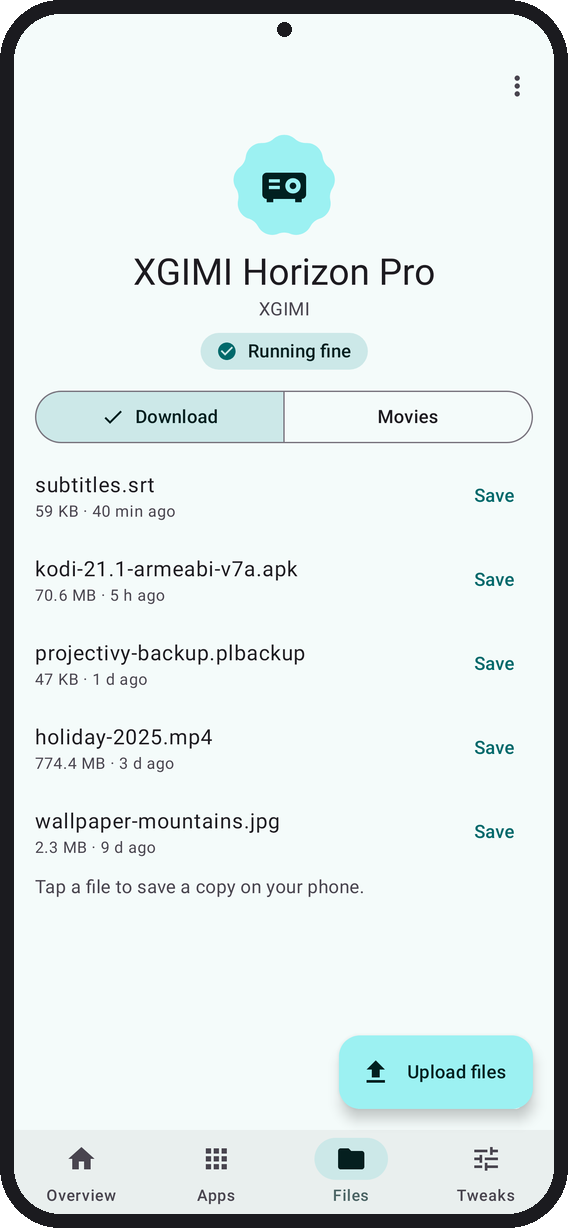
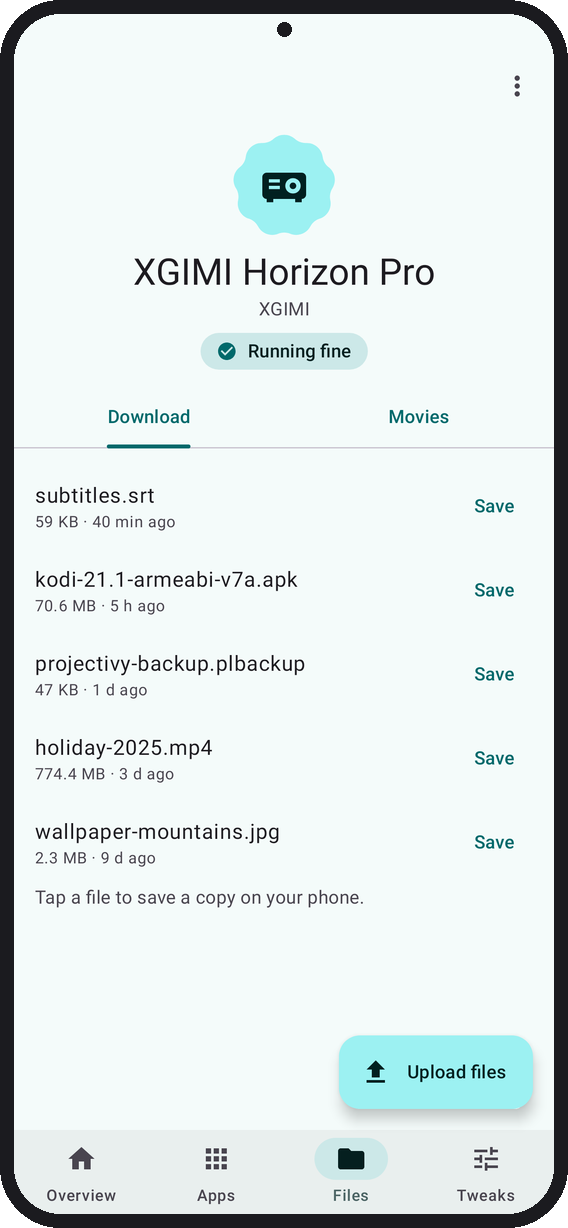
Put Download and Movies in tabs under the TV, and let short tabs fold fully
Files gets the pinned tab row the Apps tabs use. A tab shorter than the
screen gets blank space at its end, just enough for the hero to scroll
fully into the bar, so Files and Tweaks fold like the long tabs.

diff --git a/app/src/main/java/app/tellyscope/ui/DeviceTabs.kt b/app/src/main/java/app/tellyscope/ui/DeviceTabs.kt
@@ -10,8 +10,10 @@ import androidx.compose.foundation.layout.Box
 import androidx.compose.foundation.layout.Column
 import androidx.compose.foundation.layout.PaddingValues
 import androidx.compose.foundation.layout.Row
+import androidx.compose.foundation.layout.Spacer
 import androidx.compose.foundation.layout.fillMaxSize
 import androidx.compose.foundation.layout.fillMaxWidth
+import androidx.compose.foundation.layout.height
 import androidx.compose.foundation.layout.padding
 import androidx.compose.foundation.layout.size
 import androidx.compose.foundation.lazy.LazyColumn
@@ -65,6 +67,7 @@ import androidx.compose.runtime.mutableStateOf
 import androidx.compose.runtime.remember
 import androidx.compose.runtime.saveable.rememberSaveable
 import androidx.compose.runtime.setValue
+import androidx.compose.runtime.snapshotFlow
 import androidx.compose.ui.Alignment
 import androidx.compose.ui.Modifier
 import androidx.compose.ui.graphics.Color
@@ -74,11 +77,13 @@ import androidx.compose.ui.graphics.graphicsLayer
 import androidx.compose.ui.graphics.lerp
 import androidx.compose.ui.graphics.vector.ImageVector
 import androidx.compose.ui.graphics.vector.PathParser
+import androidx.compose.ui.platform.LocalDensity
 import androidx.compose.ui.text.SpanStyle
 import androidx.compose.ui.text.buildAnnotatedString
 import androidx.compose.ui.text.font.FontWeight
 import androidx.compose.ui.text.withStyle
 import androidx.compose.ui.unit.dp
+import app.tellyscope.adb.TvFolder
 import app.tellyscope.data.Action
 import app.tellyscope.data.AppInfo
 import app.tellyscope.data.DeviceState
@@ -136,6 +141,17 @@ fun DeviceTabsScreen(
     var heroHeight by remember { mutableIntStateOf(0) }
     val collapse by remember { derivedStateOf { collapsedFraction(list.firstVisibleItemIndex, list.firstVisibleItemScrollOffset, heroHeight) } }
     val barTitle by remember { derivedStateOf { titleAlpha(collapse) > 0f } }
+    // A tab shorter than the screen gets blank space at its end, so its hero can still fold fully into the bar.
+    // Measured only while the hero and the space are both in view; kept as it was while scrolled.
+    var tail by remember { mutableIntStateOf(0) }
+    LaunchedEffect(list) {
+        snapshotFlow { list.layoutInfo }.collect { info ->
+            val items = info.visibleItemsInfo
+            val hero = items.firstOrNull { it.key == "hero" } ?: return@collect
+            val end = items.firstOrNull { it.key == "tail" } ?: return@collect
+            tail = tailSpace(hero.size, info.mainAxisItemSpacing, end.offset - hero.offset, info.afterContentPadding, info.viewportSize.height)
+        }
+    }
     // The tabs share one list, so each opens at the top with its hero, not where the last one was left.
     // "See changes" lands on Tweaks scrolled to Recent changes, the list's third item, after the hero.
     var toChanges by remember { mutableStateOf(false) }
@@ -278,7 +294,7 @@ fun DeviceTabsScreen(
                     } else {
                         // Pinned under the bar once the hero has folded into it.
                         stickyHeader(key = "appsTabs") {
-                            AppsTabRow(appsTab, lerp(MaterialTheme.colorScheme.surface, MaterialTheme.colorScheme.surfaceContainer, collapse), inset = 16.dp) { appsTab = it }
+                            PinnedTabRow(AppsTab.entries.map { it.label }, appsTab.ordinal, lerp(MaterialTheme.colorScheme.surface, MaterialTheme.colorScheme.surfaceContainer, collapse), inset = 16.dp) { appsTab = AppsTab.entries[it] }
                         }
                         val split = splitApps(ui.apps, procs, appsTab)
                         if (split.apps.isEmpty() && split.system.isEmpty()) item {
@@ -294,6 +310,12 @@ fun DeviceTabsScreen(
                     }
                 }
                 TvTab.Files -> {
+                    // Pinned under the bar once the hero has folded into it, like the Apps tabs.
+                    stickyHeader(key = "folders") {
+                        PinnedTabRow(TvFolder.entries.map(Copy::folder), ui.files.folder.ordinal, lerp(MaterialTheme.colorScheme.surface, MaterialTheme.colorScheme.surfaceContainer, collapse), inset = 16.dp) {
+                            if (!offline) actions.folder(TvFolder.entries[it])
+                        }
+                    }
                     if (offline) item { Muted("Connect to the TV to see its files.") }
                     else {
                         item { FilesBlock(ui.files, state.now, actions) }
@@ -309,6 +331,7 @@ fun DeviceTabsScreen(
                     }
                 }
             }
+            item(key = "tail") { Spacer(Modifier.height(with(LocalDensity.current) { tail.toDp() })) }
         }
         if (!offline) ui.request?.let { RequestDialog(it, ui.busy == ANSWERING, actions.answerRequest, actions.dismissRequest) }
         ui.sideload?.let { SideloadDialog(it, actions) }

diff --git a/app/src/test/java/app/tellyscope/ScreenshotTest.kt b/app/src/test/java/app/tellyscope/ScreenshotTest.kt
@@ -12,6 +12,7 @@ import androidx.compose.runtime.Composable
 import androidx.compose.ui.Modifier
 import androidx.compose.ui.unit.dp
 import androidx.compose.ui.test.junit4.v2.createComposeRule
+import androidx.compose.ui.test.assertIsDisplayed
 import androidx.compose.ui.test.assertIsEnabled
 import androidx.compose.ui.test.assertIsNotDisplayed
 import androidx.compose.ui.test.assertIsNotEnabled
@@ -279,7 +280,50 @@ class ScreenshotTest {
     @Test fun md3_apps_collapsed_dark() = collapsed("64_md3_apps_collapsed", true, "Connected", TvTab.Apps)
     @Config(qualifiers = "w411dp-h640dp-xxhdpi")
     @Test fun md3_files_collapsed() = collapsed("65_md3_files_collapsed", false, "Connected", TvTab.Files)
+    @Config(qualifiers = "w411dp-h640dp-xxhdpi")
+    @Test fun md3_files_collapsed_dark() = collapsed("65_md3_files_collapsed", true, "Connected", TvTab.Files)
+    // On a tall screen the short tabs still fold the hero fully into the bar: the end space makes the room.
+    @Test fun md3_files_foldsOnTallScreen() = collapsed("65_md3_files_collapsed_tall", false, "Connected", TvTab.Files)
+    @Test fun md3_tweaks_foldsOnTallScreen() = collapsed("66_md3_tweaks_collapsed_tall", false, "Connected", TvTab.Tweaks)
+    // Download and Movies are tabs under the hero now, like Apps.
+    private fun moviesState() = md3State().let { it.copy(device = it.device.copy(files = FilesUi(TvFolder.MOVIES, listOf(
+        TvFile("holiday-2025.mp4", 812_000_000, now - 3 * 86_400_000L),
+        TvFile("family-trip-2025.mp4", 486_000_000, now - 9 * 86_400_000L),
+    )))) }
+    @Test fun md3_files_movies() { shot("73_md3_files_movies") { DeviceTabsScreen(moviesState(), DeviceActions(), startTab = TvTab.Files) } }
+    @Test fun md3_files_movies_dark() { shot("73_md3_files_movies", dark = true) { DeviceTabsScreen(moviesState(), DeviceActions(), startTab = TvTab.Files) } }
+    @Test fun md3_files_offline() {
+        shot("74_md3_files_offline") { DeviceTabsScreen(offlineMd3(), DeviceActions(), startTab = TvTab.Files) }
+        compose.onNodeWithText("Movies").assertExists()
+        compose.onNodeWithText("Connect to the TV to see its files.").assertExists()
+    }
+    @Test fun md3_files_offline_dark() { shot("74_md3_files_offline", dark = true) { DeviceTabsScreen(offlineMd3(), DeviceActions(), startTab = TvTab.Files) } }
+    @Test fun filesTabsPickTheFolder() {
+        val picked = mutableListOf<TvFolder>()
+        compose.mainClock.autoAdvance = false
+        compose.setContent { TellyscopeTheme(dynamic = false) { DeviceTabsScreen(md3State(), DeviceActions(folder = { picked += it }), startTab = TvTab.Files) } }
+        compose.mainClock.advanceTimeBy(1_000)
+        compose.onNodeWithText("Movies").performClick()
+        compose.mainClock.advanceTimeBy(1_000)
+        assertEquals(listOf(TvFolder.MOVIES), picked)
+    }
     @Test fun md3_tweaks() { shot("66_md3_tweaks") { DeviceTabsScreen(md3State(), DeviceActions(), startTab = TvTab.Tweaks) } }
+    @Test fun md3_tweaks_dark() { shot("66_md3_tweaks", dark = true) { DeviceTabsScreen(md3State(), DeviceActions(), startTab = TvTab.Tweaks) } }
+    @Test fun md3_tweaks_offline() { shot("75_md3_tweaks_offline") { DeviceTabsScreen(offlineMd3(), DeviceActions(), startTab = TvTab.Tweaks) } }
+    @Test fun md3_tweaks_offline_dark() { shot("75_md3_tweaks_offline", dark = true) { DeviceTabsScreen(offlineMd3(), DeviceActions(), startTab = TvTab.Tweaks) } }
+    @Config(qualifiers = "w411dp-h640dp-xxhdpi")
+    @Test fun md3_tweaks_collapsed_dark() = collapsed("66_md3_tweaks_collapsed", true, "Connected", TvTab.Tweaks)
+    // "See changes" on Overview still lands on Tweaks at Recent changes, the end space notwithstanding.
+    @Test fun seeChangesLandsOnRecentChanges() {
+        compose.mainClock.autoAdvance = false
+        compose.setContent { TellyscopeTheme(dynamic = false) { DeviceTabsScreen(md3State(), DeviceActions()) } }
+        compose.mainClock.advanceTimeBy(1_000)
+        compose.onNode(hasScrollAction()).performScrollToNode(hasText("See changes"))
+        compose.onNodeWithText("See changes").performClick()
+        compose.mainClock.advanceTimeBy(1_000)
+        compose.onNodeWithText("Recent changes").assertIsDisplayed()
+        compose.onAllNodesWithText("Connected").onFirst().assertExists() // folded into the bar
+    }
     @Config(qualifiers = "w411dp-h640dp-xxhdpi")
     @Test fun md3_tweaks_collapsed() = collapsed("66_md3_tweaks_collapsed", false, "Connected", TvTab.Tweaks)
 

diff --git a/app/src/main/java/app/tellyscope/ui/TvHeader.kt b/app/src/main/java/app/tellyscope/ui/TvHeader.kt
@@ -26,7 +26,9 @@ import androidx.compose.material3.FilterChip
 import androidx.compose.material3.Icon
 import androidx.compose.material3.MaterialShapes
 import androidx.compose.material3.MaterialTheme
+import androidx.compose.material3.PrimaryTabRow
 import androidx.compose.material3.Surface
+import androidx.compose.material3.Tab
 import androidx.compose.material3.Text
 import androidx.compose.material3.toShape
 import androidx.compose.runtime.Composable
@@ -34,8 +36,10 @@ import androidx.compose.ui.Alignment
 import androidx.compose.ui.Modifier
 import androidx.compose.ui.draw.alpha
 import androidx.compose.ui.draw.clip
+import androidx.compose.ui.graphics.Color
 import androidx.compose.ui.graphics.TransformOrigin
 import androidx.compose.ui.graphics.graphicsLayer
+import androidx.compose.ui.layout.layout
 import androidx.compose.ui.layout.onSizeChanged
 import androidx.compose.ui.text.style.TextOverflow
 import androidx.compose.ui.unit.Dp
@@ -65,6 +69,15 @@ internal fun detailAlpha(f: Float) = (1f - 2f * f).coerceIn(0f, 1f)
 
 /** The bar title comes in over the last third, as the hero's name passes under the bar. */
 internal fun titleAlpha(f: Float) = ((f - 0.67f) / 0.33f).coerceIn(0f, 1f)
+
+/**
+ * The blank space a tab needs after its last item so the hero can scroll fully under the bar,
+ * 0 when the tab is long enough already. From the list laid out with the hero and the space both
+ * in view: [heroSize] and [spacing] are the hero item and the gap after it, [contentEnd] where the
+ * space starts measured from the hero's top, [afterPadding] the list's end padding.
+ */
+internal fun tailSpace(heroSize: Int, spacing: Int, contentEnd: Int, afterPadding: Int, viewport: Int): Int =
+    (heroSize + spacing - (contentEnd + afterPadding - viewport)).coerceAtLeast(0)
 
 /** The TV's cookie tile: primary while it's connected, grey when it isn't. */
 @OptIn(ExperimentalMaterial3ExpressiveApi::class)
@@ -175,5 +188,23 @@ private fun TvChips(state: UiState, actions: DeviceActions) {
         }
         // Adding a TV sits with the TVs, as the last chip.
         AssistChip(onClick = actions.addDevice, label = { Text("Device") }, leadingIcon = { Icon(Icons.Default.Add, contentDescription = "Add a", Modifier.size(18.dp)) })
+    }
+}
+
+/** A tab's own tabs, edge to edge across the list's side [inset], pinned under the bar once the hero has folded. */
+@Composable
+internal fun PinnedTabRow(labels: List<String>, selected: Int, color: Color, inset: Dp, onSelect: (Int) -> Unit) {
+    PrimaryTabRow(
+        selectedTabIndex = selected,
+        containerColor = color,
+        modifier = Modifier.layout { m, c ->
+            val side = inset.roundToPx()
+            val p = m.measure(c.copy(minWidth = c.maxWidth + 2 * side, maxWidth = c.maxWidth + 2 * side))
+            layout(c.maxWidth, p.height) { p.place(-side, 0) }
+        },
+    ) {
+        labels.forEachIndexed { i, label ->
+            Tab(selected = selected == i, onClick = { onSelect(i) }, text = { Text(label) })
+        }
     }
 }

diff --git a/app/src/main/java/app/tellyscope/ui/AppsTabs.kt b/app/src/main/java/app/tellyscope/ui/AppsTabs.kt
@@ -12,16 +12,11 @@ import androidx.compose.material.icons.filled.KeyboardArrowDown
 import androidx.compose.material.icons.filled.KeyboardArrowUp
 import androidx.compose.material3.Icon
 import androidx.compose.material3.MaterialTheme
-import androidx.compose.material3.PrimaryTabRow
-import androidx.compose.material3.Tab
 import androidx.compose.material3.Text
 import androidx.compose.runtime.Composable
 import androidx.compose.ui.Alignment
 import androidx.compose.ui.Modifier
 import androidx.compose.ui.draw.clip
-import androidx.compose.ui.graphics.Color
-import androidx.compose.ui.layout.layout
-import androidx.compose.ui.unit.Dp
 import androidx.compose.ui.unit.dp
 import app.tellyscope.data.AppInfo
 import app.tellyscope.data.Proc
@@ -51,24 +46,6 @@ internal fun splitApps(apps: List<AppInfo>, procs: List<Proc>, tab: AppsTab): Ap
     if (tab == AppsTab.Installed) return AppsSplit(shown, emptyList())
     val (system, rest) = shown.partition { locked(it, apps) }
     return AppsSplit(rest, system)
-}
-
-/** The three tabs, edge to edge across the list's side padding, pinned under the bar once the hero has folded. */
-@Composable
-internal fun AppsTabRow(tab: AppsTab, color: Color, inset: Dp, onTab: (AppsTab) -> Unit) {
-    PrimaryTabRow(
-        selectedTabIndex = tab.ordinal,
-        containerColor = color,
-        modifier = Modifier.layout { m, c ->
-            val side = inset.roundToPx()
-            val p = m.measure(c.copy(minWidth = c.maxWidth + 2 * side, maxWidth = c.maxWidth + 2 * side))
-            layout(c.maxWidth, p.height) { p.place(-side, 0) }
-        },
-    ) {
-        AppsTab.entries.forEach { t ->
-            Tab(selected = tab == t, onClick = { onTab(t) }, text = { Text(t.label) })
-        }
-    }
 }
 
 /** "System (N)" over the apps the TV needs; tapping it folds the list away or opens it again. */

diff --git a/app/src/main/java/app/tellyscope/ui/Transfers.kt b/app/src/main/java/app/tellyscope/ui/Transfers.kt
@@ -29,9 +29,6 @@ import androidx.compose.material3.Icon
 import androidx.compose.material3.LinearWavyProgressIndicator
 import androidx.compose.material3.LoadingIndicator
 import androidx.compose.material3.MaterialTheme
-import androidx.compose.material3.SegmentedButton
-import androidx.compose.material3.SegmentedButtonDefaults
-import androidx.compose.material3.SingleChoiceSegmentedButtonRow
 import androidx.compose.material3.Surface
 import androidx.compose.material3.Text
 import androidx.compose.material3.TextButton
@@ -143,19 +140,9 @@ internal val Broom = ImageVector.Builder("Broom", 24.dp, 24.dp, 24f, 24f)
     )
     .build()
 
-/** Body of the Files section: the folder switch, then the folder's files, each one tap from the phone. */
+/** Body of the Files tab, under its folder tabs: the folder's files, each one tap from the phone. */
 @Composable
 fun FilesBlock(files: FilesUi, now: Long, actions: DeviceActions) {
-    SingleChoiceSegmentedButtonRow(Modifier.fillMaxWidth()) {
-        TvFolder.entries.forEachIndexed { i, f ->
-            SegmentedButton(
-                selected = files.folder == f,
-                onClick = { actions.folder(f) },
-                shape = SegmentedButtonDefaults.itemShape(i, TvFolder.entries.size),
-            ) { Text(Copy.folder(f)) }
-        }
-    }
-    Spacer(Modifier.size(4.dp))
     val list = files.list
     when {
         list == null -> Row(Modifier.fillMaxWidth().padding(8.dp), horizontalArrangement = Arrangement.Center) {

diff --git a/app/src/test/java/app/tellyscope/TvHeaderTest.kt b/app/src/test/java/app/tellyscope/TvHeaderTest.kt
@@ -4,6 +4,7 @@ package app.tellyscope
 
 import app.tellyscope.ui.collapsedFraction
 import app.tellyscope.ui.detailAlpha
+import app.tellyscope.ui.tailSpace
 import app.tellyscope.ui.titleAlpha
 import org.junit.Assert.assertEquals
 import org.junit.Test
@@ -25,5 +26,15 @@ class TvHeaderTest {
         assertEquals(1f, titleAlpha(1f), 0.001f)
         // Never both out of sight with nothing in the bar: the title starts once the details are gone.
         assertEquals(0f, detailAlpha(0.67f), 0.001f)
+    }
+
+    @Test fun aShortTabGetsJustEnoughSpaceToFoldTheHero() {
+        // Hero 600 + 36 gap; the rest ends 900 below the hero's top, then 288 of end padding, on a 1800 screen:
+        // it can't scroll at all (900 + 288 < 1800, 612 short), so it needs 612 + 636 = 1248.
+        assertEquals(1248, tailSpace(heroSize = 600, spacing = 36, contentEnd = 900, afterPadding = 288, viewport = 1800))
+        // Already scrolls 3000 + 288 - 1800 = 1488, past the hero: nothing added.
+        assertEquals(0, tailSpace(600, 36, 3000, 288, 1800))
+        // Exactly long enough: still nothing.
+        assertEquals(0, tailSpace(600, 36, 2148, 288, 1800))
     }
 }

diff --git a/README.md b/README.md
@@ -91,7 +91,7 @@ Tellyscope is a phone app that talks to your Android TV, Google TV or Fire TV ov
 - **Install apps.** Pick an APK, several split APKs or an `.apks`/`.xapk`/`.apkm` bundle on your phone. Before installing, Tellyscope shows the app's name, version and size and says whether it's new, an update, a reinstall or an older version. It won't install an older version over a newer one unless you tick the box. If the TV refuses, you get the reason in plain words.
 - **TV tweaks.** **Block ads with Private DNS** sends the TV's address lookups to an ad-blocking DNS provider (AdGuard by default, or any other you type in). Tellyscope then checks the TV can still look addresses up, and puts the old setting back if not. It needs Android 9 or newer. **Faster animations** makes menus move at twice the speed. Both land in History with an Undo. **Clear caches** frees space by clearing every app's temporary files; app data and sign-ins stay. **Take screenshot** saves what the TV shows to your phone.
 - **Connection requests.** When another device asks to debug the TV, Tellyscope shows the TV's "Allow debugging?" prompt on your phone, with the device's key fingerprint, so you can **Allow** or **Deny** it without the remote. **Always allow this device** appears when the TV's own prompt offers it.
-- **Files.** Send a file from your phone into the TV's Download or Movies folder, or save one from there to your phone. A file with the same name gets a " (1)" instead of being overwritten, and a cancelled copy leaves nothing half-written behind.
+- **Files.** Send a file from your phone into the TV's Download or Movies folder, or save one from there to your phone. The two folders are tabs under the TV, and stay pinned under the bar as you scroll. A file with the same name gets a " (1)" instead of being overwritten, and a cancelled copy leaves nothing half-written behind.
 
 ## Setting up your TV
 

diff --git a/CHANGELOG.md b/CHANGELOG.md
@@ -15,6 +15,7 @@ until this file has a section for its version.
 - **Improved:** Debloat finds your TV's list itself, or its maker's, or lets you pick. [#70](../../pull/70)
 - **Improved:** The TV tops every tab and folds into the bar as you scroll. [#71](../../pull/71)
 - **Improved:** Apps splits into Running, Installed and Built-in tabs, with the apps the TV needs folded under System. [#72](../../pull/72)
+- **Improved:** Files puts Download and Movies in tabs under the TV, and short tabs now fold the TV fully into the bar. [#74](../../pull/74)
 - **Fixed:** Welcome and pairing buttons no longer hide under the phone's navigation buttons. [#69](../../pull/69)
 
 ## 0.5.0 — 2026-10-24
